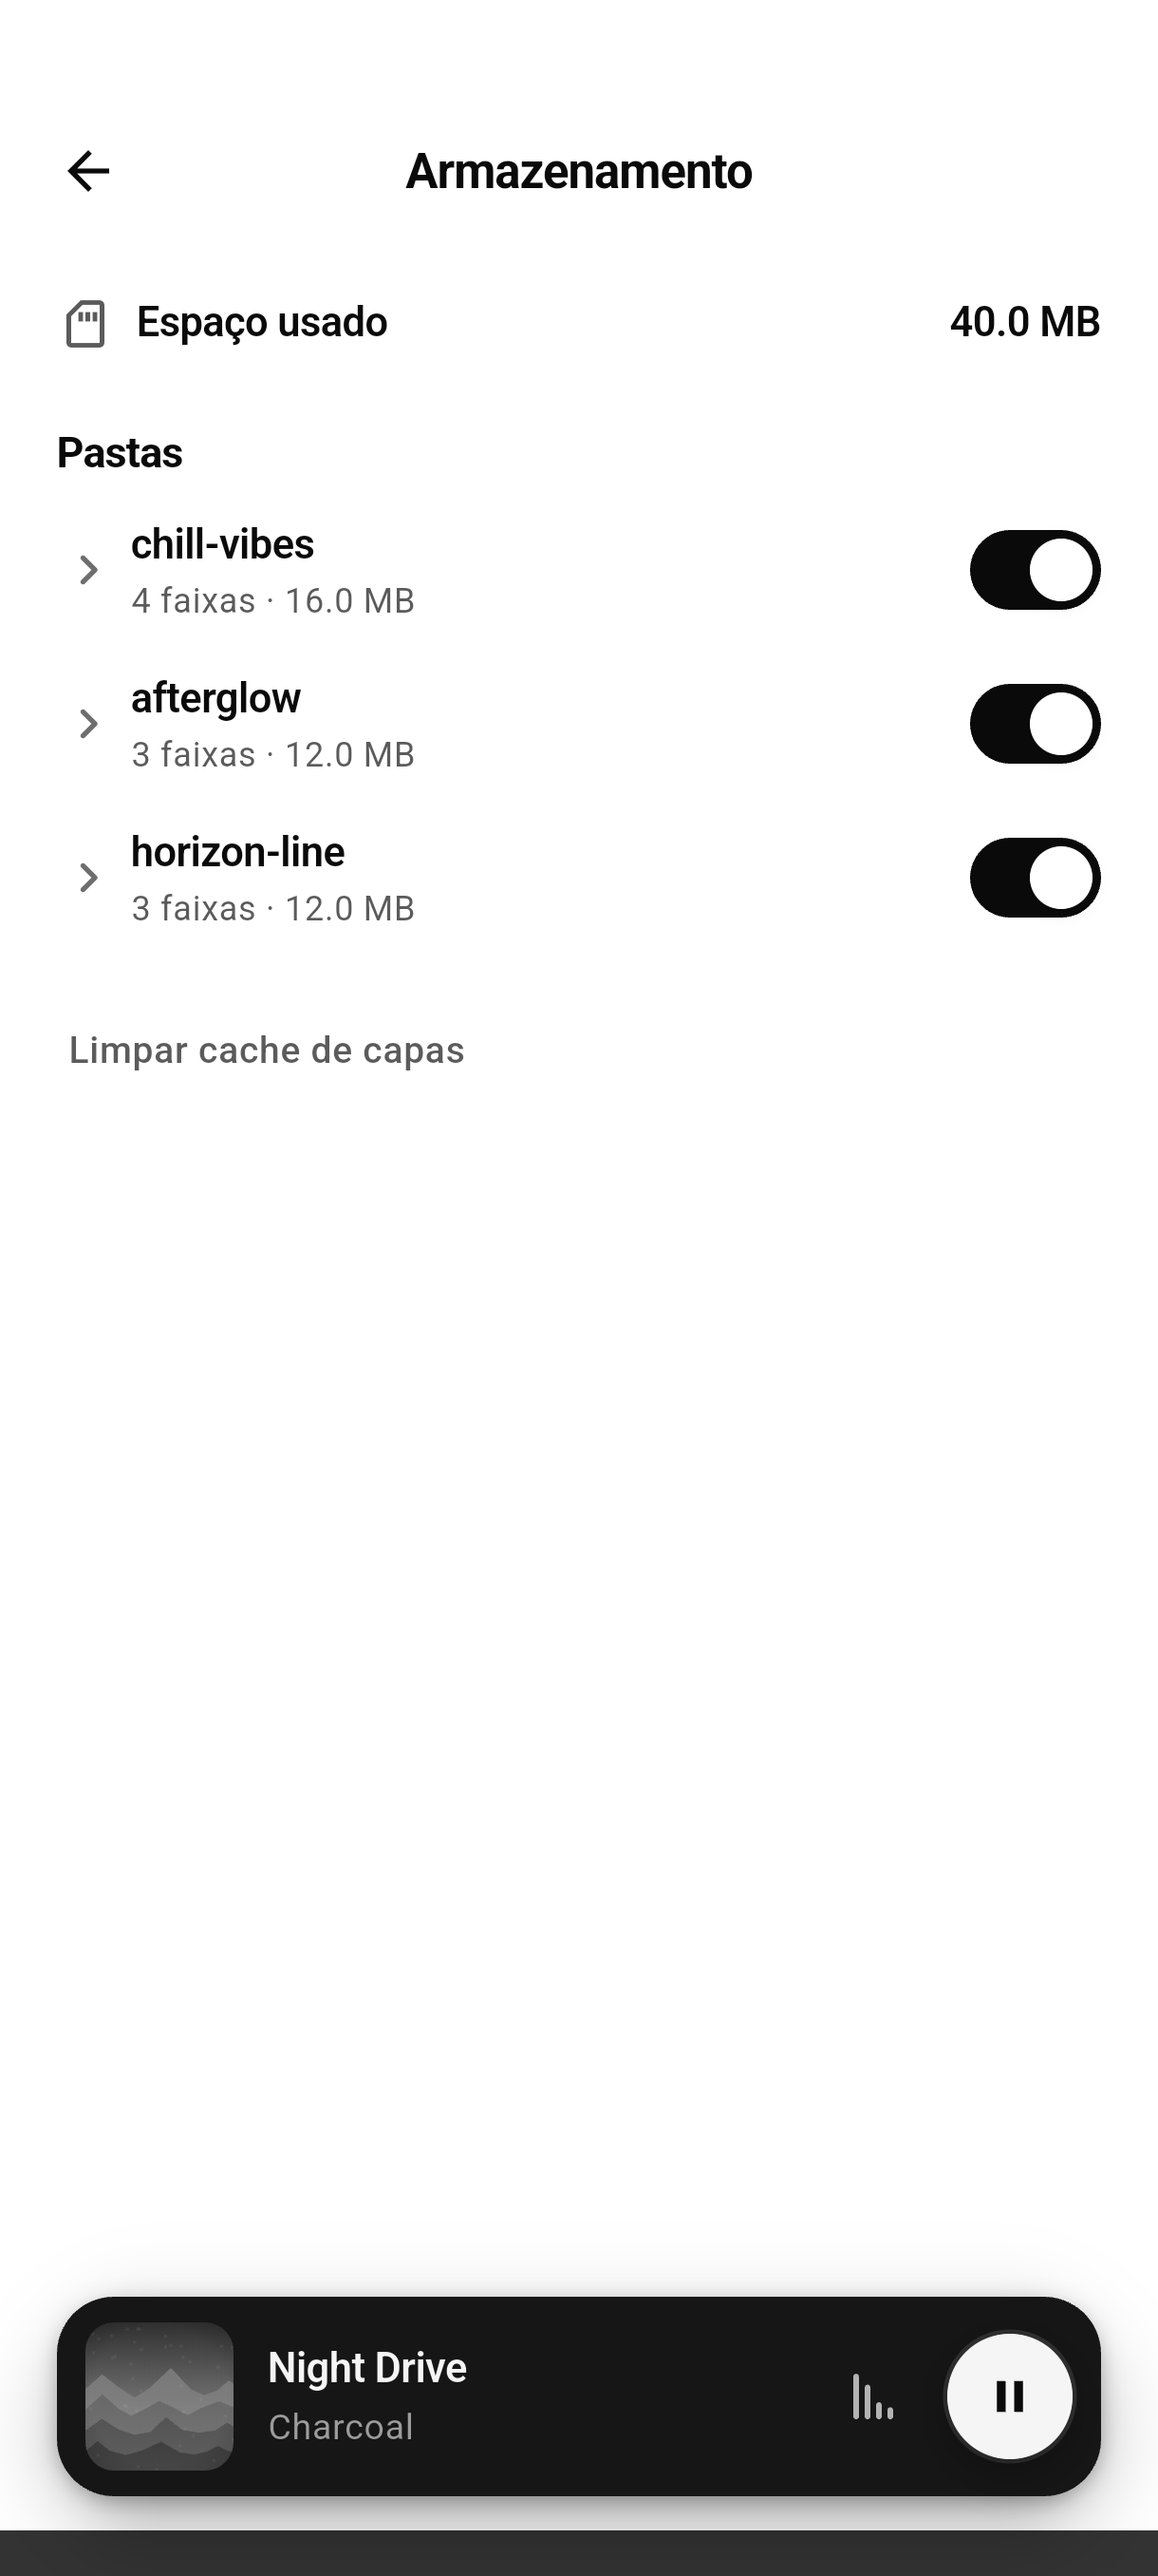
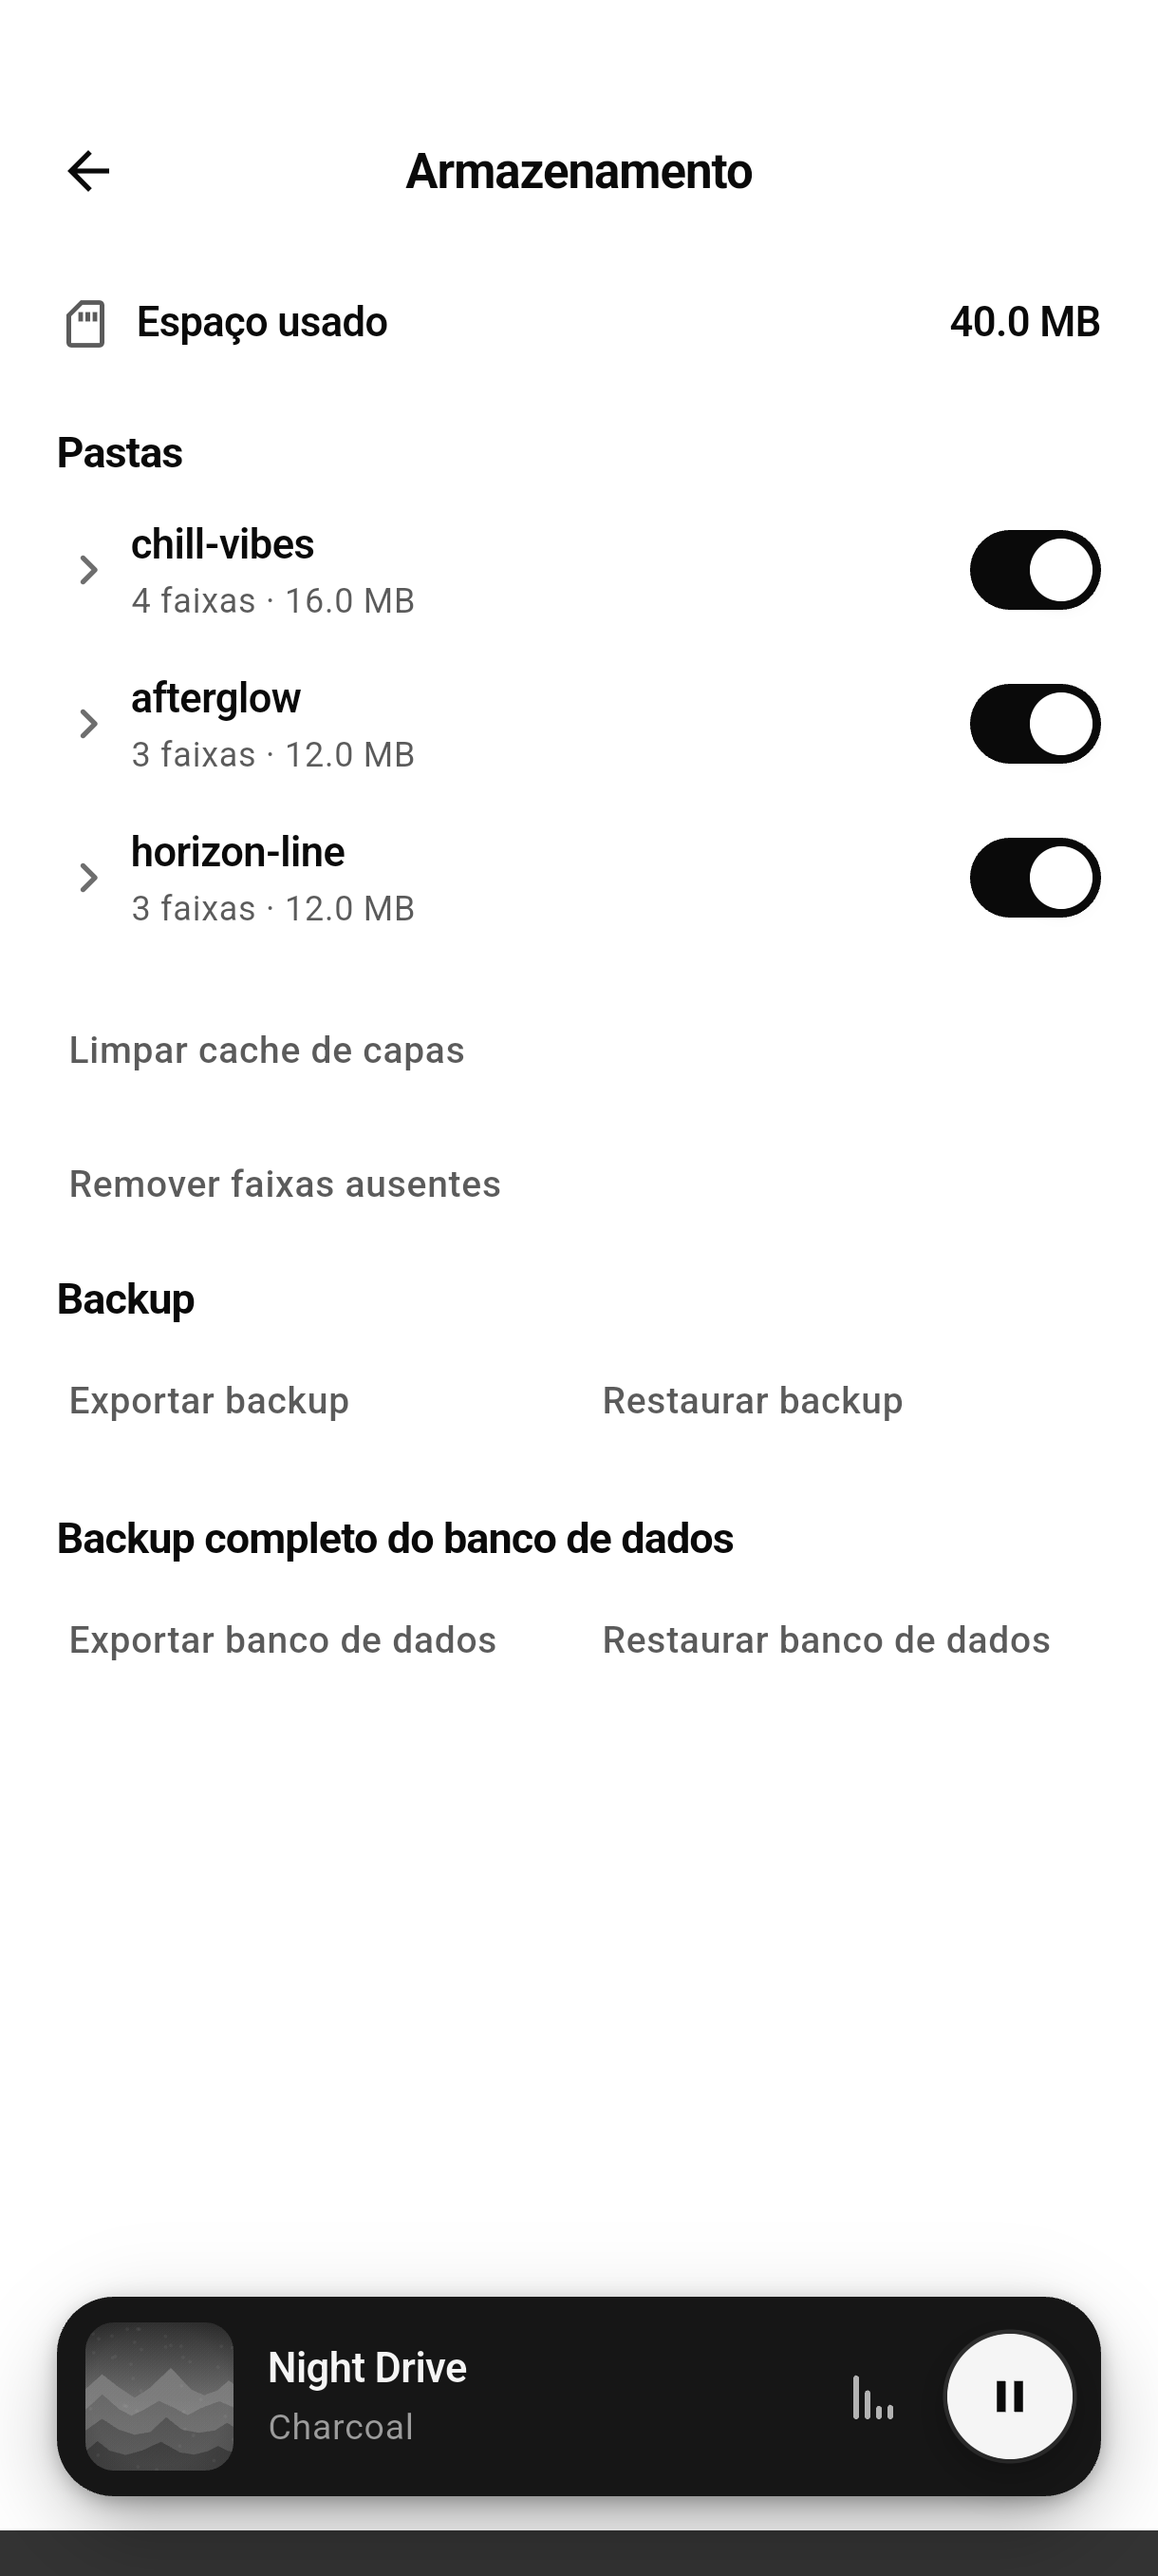
docs(screenshots): capture Chinese and refresh every locale
- Adds `zh` to the locales driven by the screenshot suite. It was the one
  language whose README borrowed the English images while the other three
  had their own.
- Points `README.zh.md` at `screenshots/zh/`, so every README now shows the
  app in the language it is written in.
- Updates the scripts table to say that a run writes one folder per README
  language, which the previous wording did not.
- Refreshes all four locales from the current app. The storage screen had
  gained backup export and restore in August and the missing-track purge in
  September, and the images predated both.

diff --git a/integration_test/screenshot_test.dart b/integration_test/screenshot_test.dart
@@ -26,9 +26,10 @@ import 'package:shared_preferences/shared_preferences.dart';
 
 import '../test/helpers/fake_audio_player_service.dart';
 
-/// One README per locale (README.md, README.es.md, README.pt-BR.md); each
-/// gets its own `screenshots/<folder>` subfolder, named to match.
-const _localesToCapture = ['en', 'es', 'pt-BR'];
+/// One README per locale (README.md, README.es.md, README.pt-BR.md,
+/// README.zh.md); each gets its own `screenshots/<folder>` subfolder,
+/// named to match.
+const _localesToCapture = ['en', 'es', 'pt-BR', 'zh'];
 
 /// Parses a locale arg ('en', 'es', 'pt-BR', ...) into a [Locale].
 Locale _parseLocaleArg(String arg) {

diff --git a/README.zh.md b/README.zh.md
@@ -106,15 +106,15 @@ genhtml coverage/lcov.info -o coverage/html   # 需要先安装 lcov
 ## 截图
 
 <div align="center">
-<img src="screenshots/en/01_home.png" width="200" alt="首页"/>
-<img src="screenshots/en/02_library_playlists.png" width="200" alt="播放列表"/>
-<img src="screenshots/en/03_playlist_detail.png" width="200" alt="播放列表详情"/>
-<img src="screenshots/en/04_library_tracks.png" width="200" alt="曲目"/>
-<img src="screenshots/en/05_now_playing.png" width="200" alt="正在播放"/>
-<img src="screenshots/en/06_search.png" width="200" alt="搜索"/>
-<img src="screenshots/en/07_settings.png" width="200" alt="设置"/>
-<img src="screenshots/en/08_storage.png" width="200" alt="存储空间"/>
-<img src="screenshots/en/09_statistics.png" width="200" alt="统计"/>
+<img src="screenshots/zh/01_home.png" width="200" alt="首页"/>
+<img src="screenshots/zh/02_library_playlists.png" width="200" alt="播放列表"/>
+<img src="screenshots/zh/03_playlist_detail.png" width="200" alt="播放列表详情"/>
+<img src="screenshots/zh/04_library_tracks.png" width="200" alt="曲目"/>
+<img src="screenshots/zh/05_now_playing.png" width="200" alt="正在播放"/>
+<img src="screenshots/zh/06_search.png" width="200" alt="搜索"/>
+<img src="screenshots/zh/07_settings.png" width="200" alt="设置"/>
+<img src="screenshots/zh/08_storage.png" width="200" alt="存储空间"/>
+<img src="screenshots/zh/09_statistics.png" width="200" alt="统计"/>
 </div>
 
 ## 快速开始
@@ -142,7 +142,7 @@ fvm flutter run
 | ---------------- | -------------------------------------------------- | ---------------------------------------------------------------------------------------------------------------------------------------------------------------------------------------------------------------------------------------------------------------------- |
 | `verify`         | `scripts/verify.sh [--all] [--gen] [--skip-tests]` | 运行与 CI 相同的检查（格式化、静态分析、测试、覆盖率），范围限定为有改动的包。`--all` 无论如何都检查全部，`--gen` 先重新生成代码和本地化文件，`--skip-tests` 只做格式化和分析。通过后会写入一个标记，仓库的 agent 工作流用它判断当前工作区是否仍与上次通过的运行一致。 |
 | `workspace_hash` | `scripts/workspace_hash.sh`                        | 输出质量门禁所覆盖源文件的哈希值。`verify.sh` 和 agent 工作流用它判断自上次通过检查以来代码是否发生变化；通常不需要手动运行。                                                                                                                                          |
-| `screenshot`     | `scripts/screenshot.sh [device-id]`                | 在已连接的设备或模拟器上依次打开应用的主要界面，并将每个界面的截图保存到 `screenshots/` 中，用于 README。运行 `fvm flutter devices` 可以列出可用的设备 id。                                                                                                            |
+| `screenshot`     | `scripts/screenshot.sh [device-id]`                | 在已连接的设备或模拟器上依次打开应用的主要界面，并将每个界面的截图保存到 `screenshots/<locale>/` 中，每种 README 语言各一个目录，供各自的 README 使用。运行 `fvm flutter devices` 可以列出可用的设备 id。                                                                                                            |
 | `check_coverage` | `scripts/check_coverage.sh <lcov-file> <minimum>`  | 如果 `lcov.info` 报告（由 `flutter test --coverage` 生成）中的行覆盖率低于 `<minimum>`，则该脚本会失败。CI 用它来强制执行上面的覆盖率门槛；生成覆盖率报告后，也可以在本地运行它，在推送前先自查。                                                                      |
 | `check_l10n`     | `scripts/check_l10n.sh [arb-dir]`                  | 当各 ARB 文件所包含的键不一致时失败。`gen-l10n` 遇到缺失的键会静默回退到模板，因此翻译到一半的改动会让用户在中文构建里看到英文文案。由 `verify.sh` 和 CI 调用。 |
 

diff --git a/README.pt-BR.md b/README.pt-BR.md
@@ -163,7 +163,7 @@ Scripts utilitários ficam em `scripts/`.
 | ---------------- | -------------------------------------------------- | -------------------------------------------------------------------------------------------------------------------------------------------------------------------------------------------------------------------------------------------------------------------------------------------------------------------------------------------------------------------------------------------------------------------------------------------- |
 | `verify`         | `scripts/verify.sh [--all] [--gen] [--skip-tests]` | Executa as mesmas verificações do CI (formatação, análise, testes, cobertura), limitadas aos pacotes com mudanças pendentes. `--all` verifica os dois de qualquer forma, `--gen` regenera código e localizações antes, `--skip-tests` restringe a execução a formatação e análise. Grava um marcador em caso de sucesso, lido pelo fluxo de agente do repositório para saber se a árvore de trabalho ainda corresponde a uma execução aprovada. |
 | `workspace_hash` | `scripts/workspace_hash.sh`                        | Imprime um hash dos arquivos-fonte cobertos pelo portão de qualidade. Usado por `verify.sh` e pelo fluxo de agente para detectar se o código mudou desde a última execução aprovada; raramente rodado à mão.                                                                                                                                                                                                                                 |
-| `screenshot`     | `scripts/screenshot.sh [device-id]`                | Percorre as principais telas do app em um dispositivo ou emulador conectado e salva uma captura de cada uma em `screenshots/`, usadas no README. Execute `fvm flutter devices` para listar os ids de dispositivos disponíveis.                                                                                                                                                                                                                  |
+| `screenshot`     | `scripts/screenshot.sh [device-id]`                | Percorre as principais telas do app em um dispositivo ou emulador conectado e salva uma captura de cada uma em `screenshots/<locale>/`, uma pasta por idioma do README, usadas por cada um deles. Execute `fvm flutter devices` para listar os ids de dispositivos disponíveis.                                                                                                                                                                                                                  |
 | `check_coverage` | `scripts/check_coverage.sh <lcov-file> <minimum>`  | Falha se a cobertura de linha de um relatório `lcov.info` (gerado com `flutter test --coverage`) ficar abaixo de `<minimum>`. Usado no CI para impor os limites acima; execute localmente após gerar a cobertura para checar antes do push.                                                                                                                                                                                                 |
 | `check_l10n`     | `scripts/check_l10n.sh [arb-dir]`                  | Falha quando os arquivos ARB divergem nas chaves que carregam. O `gen-l10n` recorre ao template diante de uma chave faltando sem avisar nada, então uma mudança traduzida pela metade chegaria ao usuário como texto em inglês dentro de um build em português. Executado pelo `verify.sh` e pelo CI. |
 

diff --git a/README.es.md b/README.es.md
@@ -163,7 +163,7 @@ Los scripts utilitarios están en `scripts/`.
 | ---------------- | -------------------------------------------------- | ----------------------------------------------------------------------------------------------------------------------------------------------------------------------------------------------------------------------------------------------------------------------------------------------------------------------------------------------------------------------------------------------------------------------------------- |
 | `verify`         | `scripts/verify.sh [--all] [--gen] [--skip-tests]` | Ejecuta las mismas verificaciones que CI (formato, análisis, pruebas, cobertura), limitadas a los paquetes con cambios pendientes. `--all` verifica ambos de todos modos, `--gen` regenera código y localizaciones antes, `--skip-tests` lo restringe a formato y análisis. Guarda una marca al pasar, que el flujo de agente del repositorio lee para saber si el árbol de trabajo sigue correspondiendo a una ejecución aprobada. |
 | `workspace_hash` | `scripts/workspace_hash.sh`                        | Imprime un hash de los archivos fuente que cubre el control de calidad. Lo usan `verify.sh` y el flujo de agente para detectar si el código cambió desde la última ejecución aprobada; rara vez se ejecuta a mano.                                                                                                                                                                                                                  |
-| `screenshot`     | `scripts/screenshot.sh [device-id]`                | Recorre las pantallas principales de la app en un dispositivo o emulador conectado y guarda una captura de cada una en `screenshots/`, usadas en este README. Ejecuta `fvm flutter devices` para listar los ids de dispositivos disponibles.                                                                                                                                                                                        |
+| `screenshot`     | `scripts/screenshot.sh [device-id]`                | Recorre las pantallas principales de la app en un dispositivo o emulador conectado y guarda una captura de cada una en `screenshots/<locale>/`, una carpeta por idioma del README, usadas por cada uno de ellos. Ejecuta `fvm flutter devices` para listar los ids de dispositivos disponibles.                                                                                                                                                                                        |
 | `check_coverage` | `scripts/check_coverage.sh <lcov-file> <minimum>`  | Falla si la cobertura de línea de un reporte `lcov.info` (generado con `flutter test --coverage`) cae por debajo de `<minimum>`. Se usa en CI para exigir los umbrales de arriba; ejecútalo localmente tras generar la cobertura para verificar antes de hacer push.                                                                                                                                                                |
 | `check_l10n`     | `scripts/check_l10n.sh [arb-dir]`                  | Falla cuando los archivos ARB no coinciden en las claves que contienen. `gen-l10n` recurre a la plantilla ante una clave faltante sin avisar, así que un cambio traducido a medias llegaría al usuario como texto en inglés dentro de una compilación en español. Lo ejecutan `verify.sh` y CI. |
 

diff --git a/README.md b/README.md
@@ -161,7 +161,7 @@ Utility scripts live under `scripts/`.
 | ---------------- | -------------------------------------------------- | ---------------------------------------------------------------------------------------------------------------------------------------------------------------------------------------------------------------------------------------------------------------------------------------------------------------------------------------------------------------------------------------------- |
 | `verify`         | `scripts/verify.sh [--all] [--gen] [--skip-tests]` | Runs the same checks CI does (formatting, analysis, tests, coverage), scoped to the packages with pending changes. `--all` checks both regardless, `--gen` regenerates code and localizations first, `--skip-tests` limits the run to formatting and analysis. Records a stamp on success, which the repo's agent workflow reads to tell whether the working tree still matches a passing run. |
 | `workspace_hash` | `scripts/workspace_hash.sh`                        | Prints a hash of the source files the quality gate covers. Used by `verify.sh` and by the agent workflow to detect whether code changed since the last passing run; rarely run by hand.                                                                                                                                                                                                        |
-| `screenshot`     | `scripts/screenshot.sh [device-id]`                | Drives the app through its main screens on a connected device or emulator and saves a screenshot of each one into `screenshots/`, used in the README. Run `fvm flutter devices` to list available device ids.                                                                                                                                                                                  |
+| `screenshot`     | `scripts/screenshot.sh [device-id]`                | Drives the app through its main screens on a connected device or emulator and saves a screenshot of each one into `screenshots/<locale>/`, one folder per README language, used by each of them. Run `fvm flutter devices` to list available device ids.                                                                                                                                                                                  |
 | `check_coverage` | `scripts/check_coverage.sh <lcov-file> <minimum>`  | Fails if line coverage in an `lcov.info` report (from `flutter test --coverage`) falls below `<minimum>`. Used in CI to enforce the thresholds above; run it locally after generating coverage to check before pushing.                                                                                                                                                                        |
 | `check_l10n`     | `scripts/check_l10n.sh [arb-dir]`                  | Fails when the ARB files disagree on which keys they carry. `gen-l10n` falls back to the template for a missing key without saying anything, so a half-translated change would otherwise reach users as English text in a Spanish build. Run by `verify.sh` and by CI. |
 
